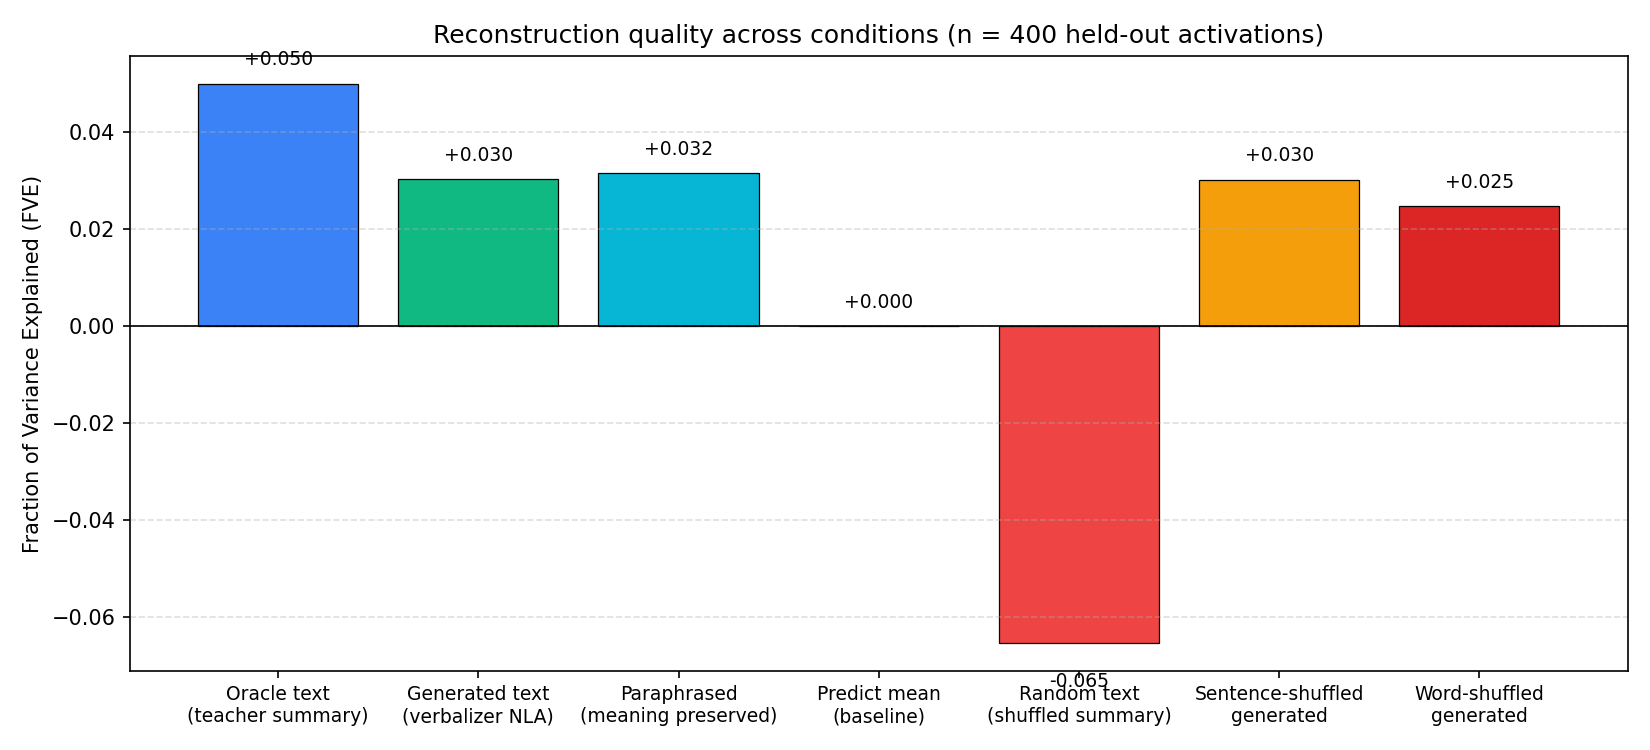
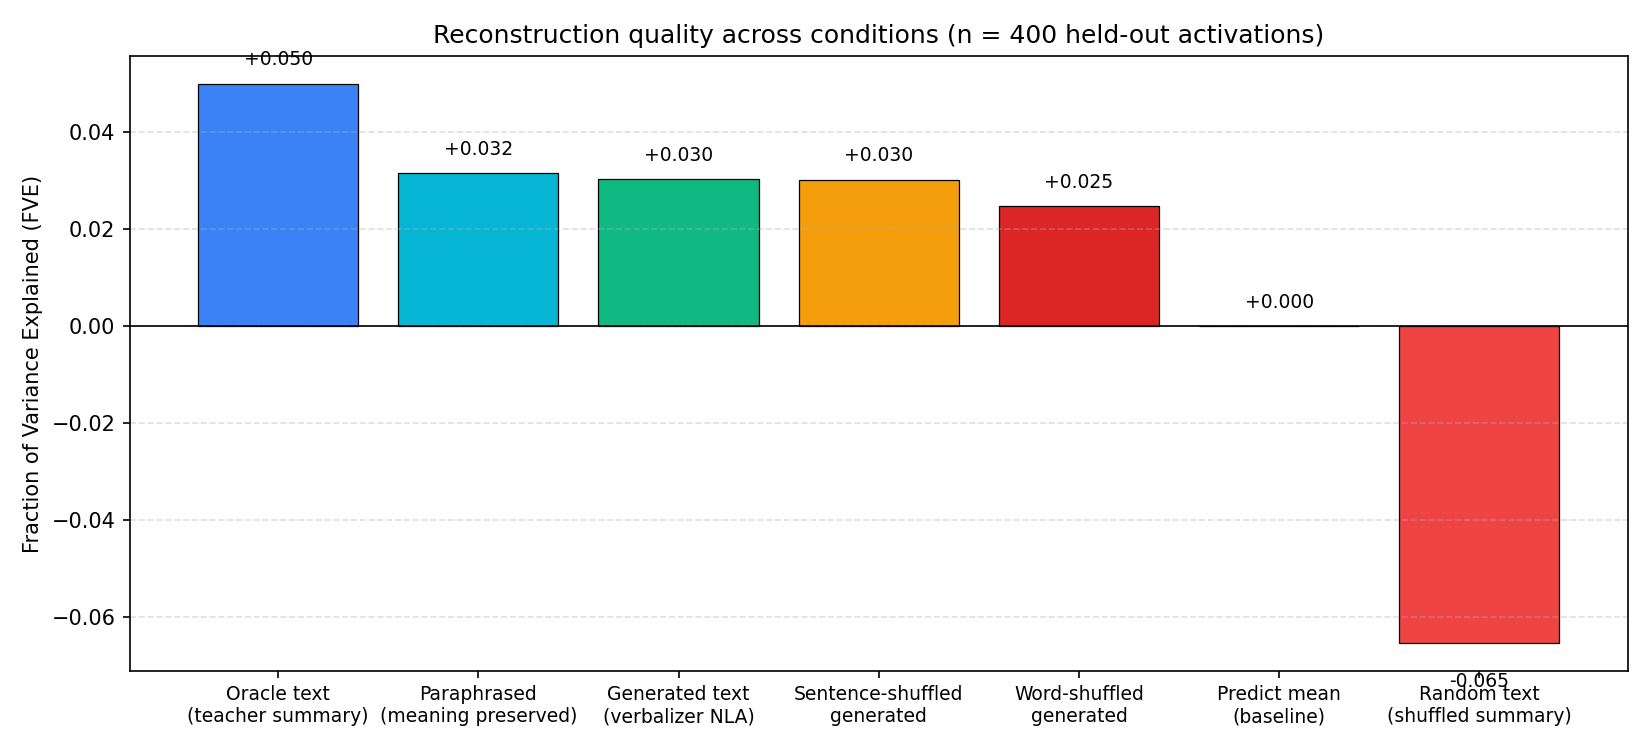
Reorder FVE bar chart to match table (descending FVE)

Changed region(s): [[0.2164, 0.184, 0.9582, 0.8587], [0.5873, 0.8893, 0.9582, 0.9813], [0.2164, 0.92, 0.5873, 0.9813]]

diff --git a/src/plot_results.py b/src/plot_results.py
@@ -34,27 +34,25 @@ def parse_args():
 
 
 def plot_fve_bar(data_dir, out_dir):
-    """Bar chart of every FVE condition we measured."""
+    """Bar chart of every FVE condition we measured, ordered to match the README table."""
+    nla_path = os.path.join(data_dir, "nla_results.json")
+    para_path = os.path.join(data_dir, "paraphrase_results.json")
+    nla = json.load(open(nla_path)) if os.path.exists(nla_path) else None
+    para = json.load(open(para_path)) if os.path.exists(para_path) else None
+
     bars = []
-    nla = os.path.join(data_dir, "nla_results.json")
-    if os.path.exists(nla):
-        r = json.load(open(nla))
-        bars += [
-            ("Oracle text\n(teacher summary)", r["fve_oracle_text"], "#3b82f6"),
-            ("Generated text\n(verbalizer NLA)", r["fve_generated_text"], "#10b981"),
-            ("Predict mean\n(baseline)", r["fve_predict_mean"], "#a3a3a3"),
-            ("Random text\n(shuffled summary)", r["fve_random_text"], "#ef4444"),
-        ]
-    para = os.path.join(data_dir, "paraphrase_results.json")
-    if os.path.exists(para):
-        r = json.load(open(para))
-        # Insert the paraphrase condition right after generated, and the shuffles
-        bars.insert(2, ("Paraphrased\n(meaning preserved)",
-                        r["fve_paraphrased"], "#06b6d4"))
-        bars += [
-            ("Sentence-shuffled\ngenerated", r["fve_sentence_shuffled"], "#f59e0b"),
-            ("Word-shuffled\ngenerated", r["fve_word_shuffled"], "#dc2626"),
-        ]
+    if nla:
+        bars.append(("Oracle text\n(teacher summary)", nla["fve_oracle_text"], "#3b82f6"))
+    if para:
+        bars.append(("Paraphrased\n(meaning preserved)", para["fve_paraphrased"], "#06b6d4"))
+    if nla:
+        bars.append(("Generated text\n(verbalizer NLA)", nla["fve_generated_text"], "#10b981"))
+    if para:
+        bars.append(("Sentence-shuffled\ngenerated", para["fve_sentence_shuffled"], "#f59e0b"))
+        bars.append(("Word-shuffled\ngenerated", para["fve_word_shuffled"], "#dc2626"))
+    if nla:
+        bars.append(("Predict mean\n(baseline)", nla["fve_predict_mean"], "#a3a3a3"))
+        bars.append(("Random text\n(shuffled summary)", nla["fve_random_text"], "#ef4444"))
 
     labels = [b[0] for b in bars]
     values = [b[1] for b in bars]
